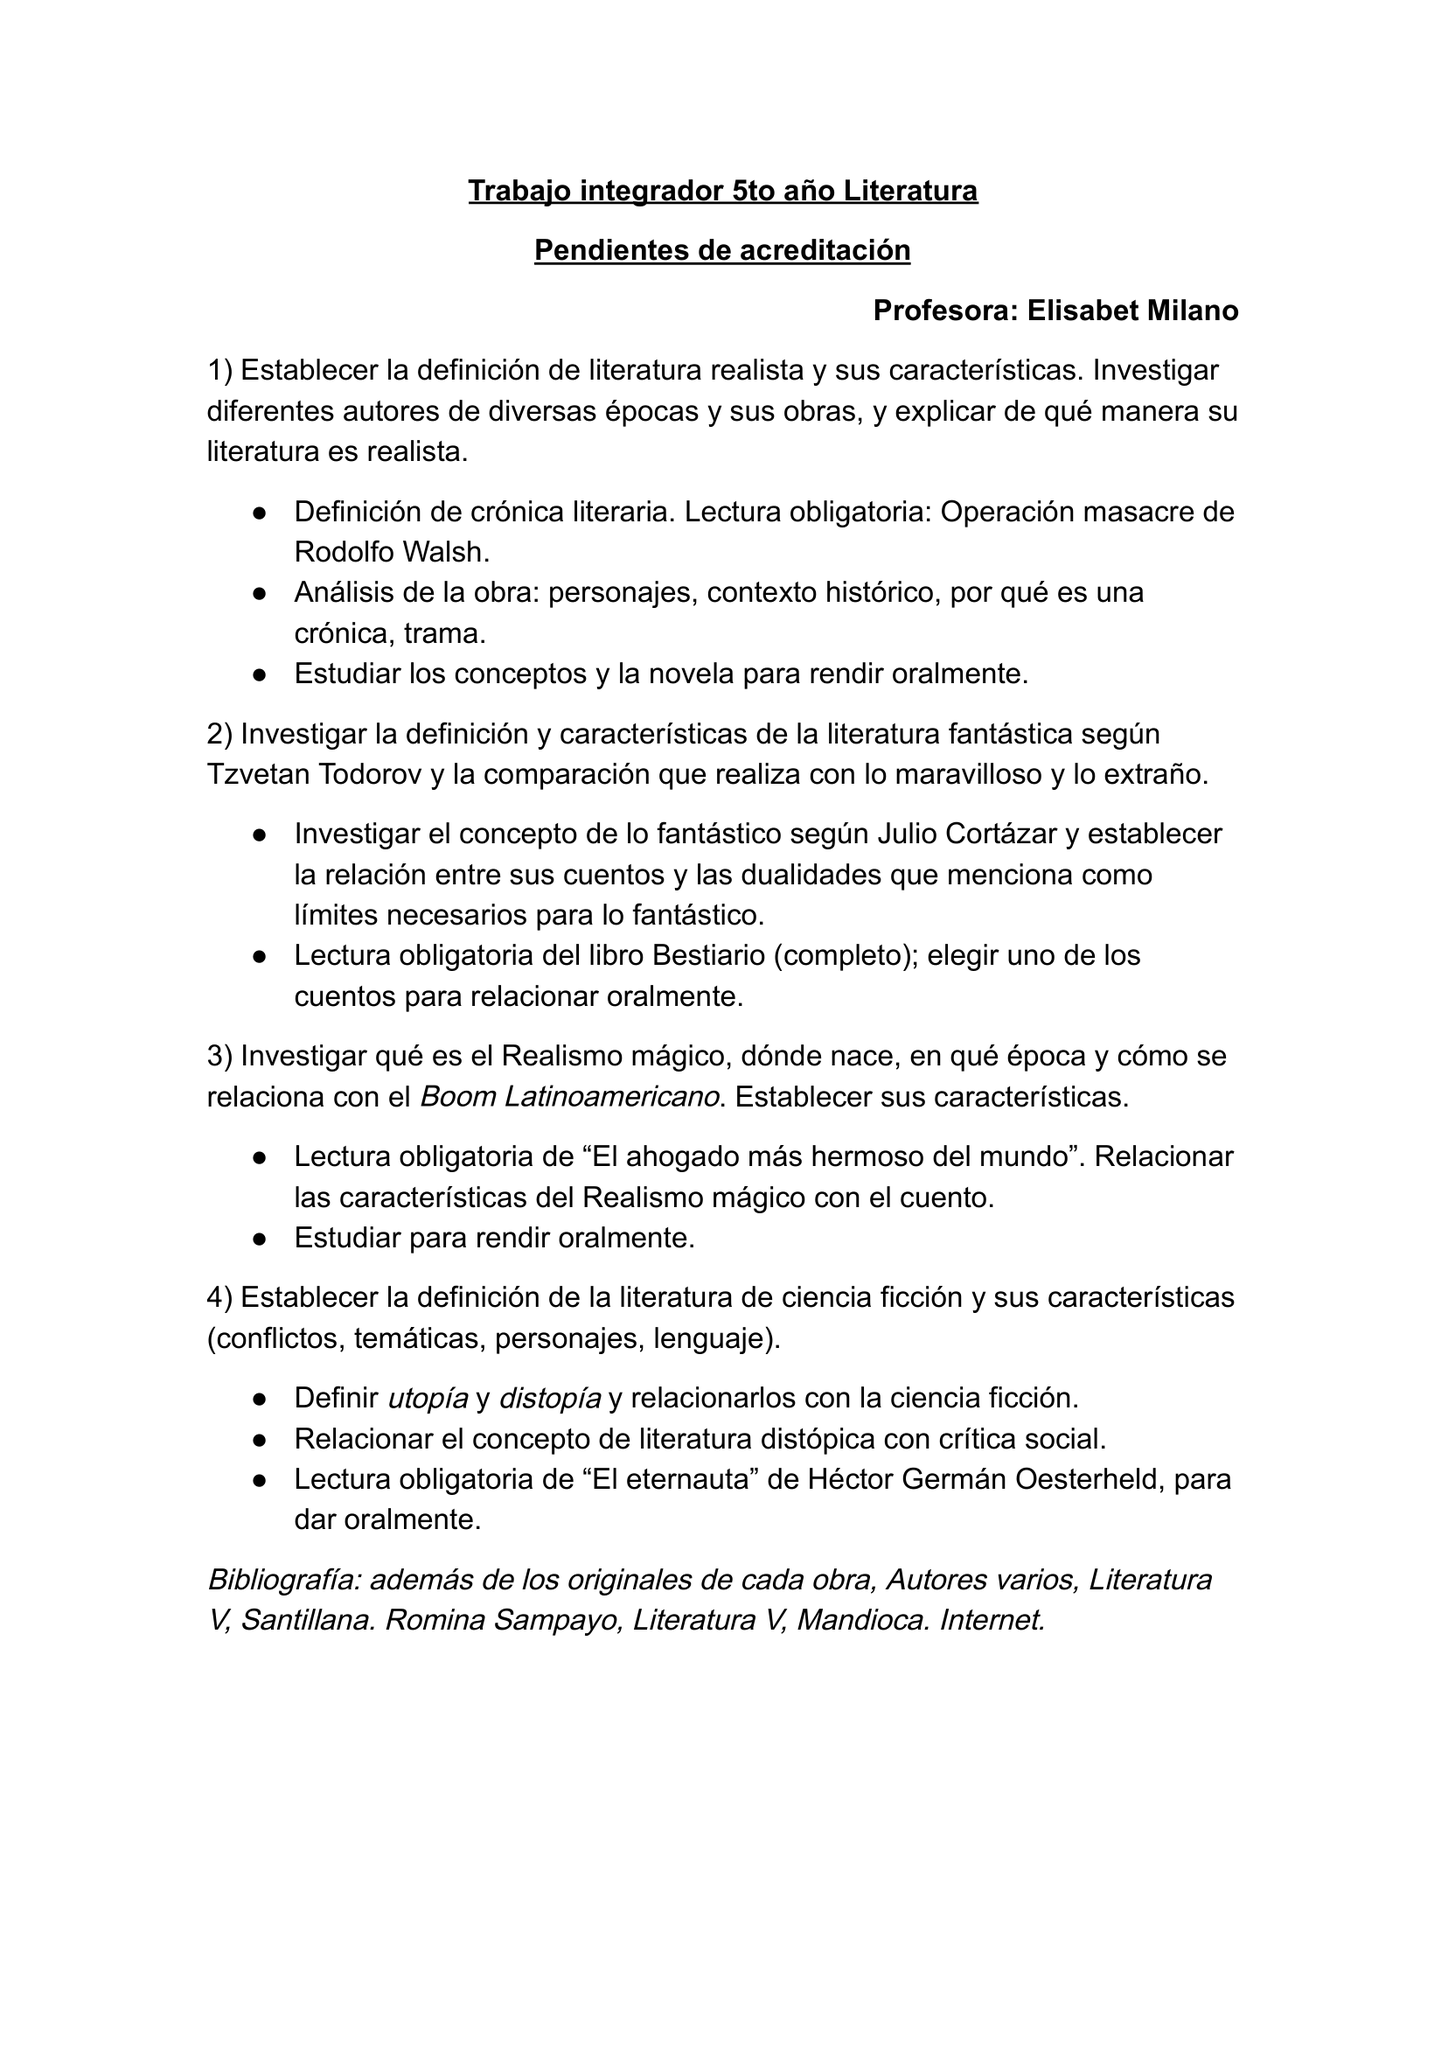
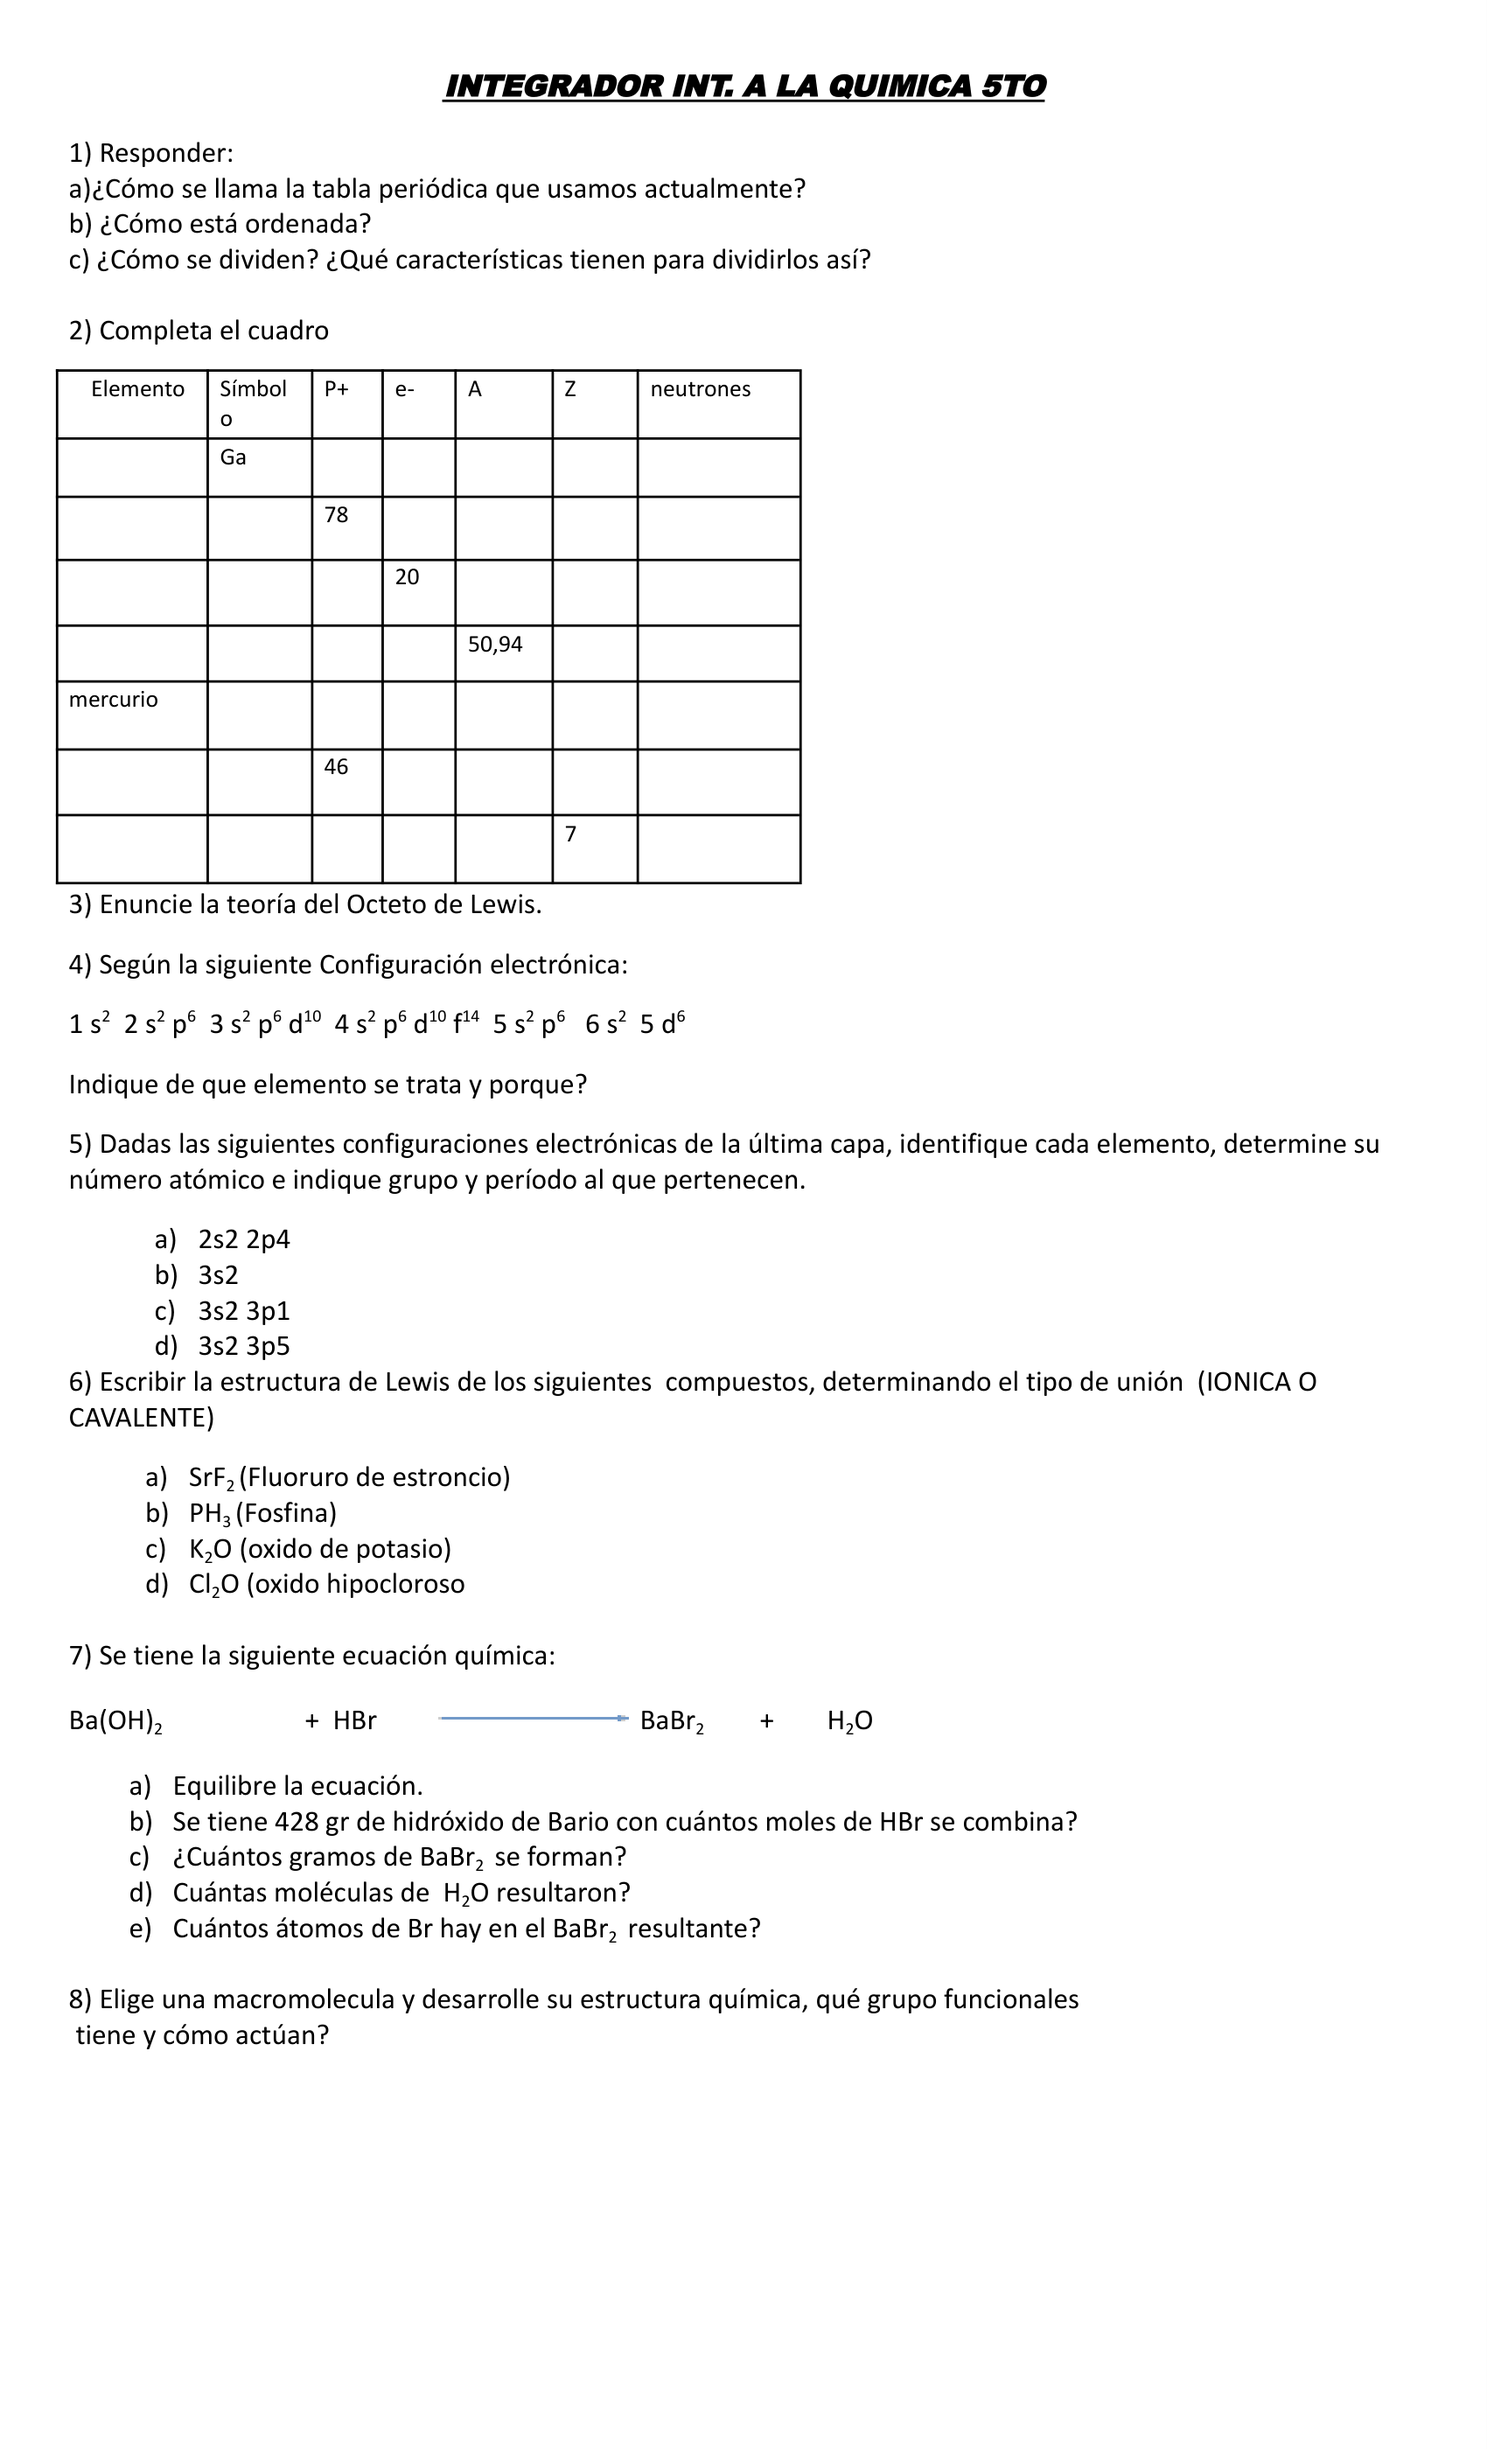
0.4.2 png 0.0.8.2 js
png
+ Materias 2do 4to y 5to

js
+ Conf 20 43 51 53

Changed region(s): [[0.0308, 0.0312, 0.8623, 0.8427], [0.7699, 0.4994, 0.8315, 0.5306], [0.0616, 0.6866, 0.0924, 0.7178]]

diff --git a/main.js b/main.js
@@ -15,14 +15,14 @@ const year62 = ["Arte",  "Filosofía", "Geografía", "Historia", "Inglés", "Lit
 const year63 = ["Amb. y Soc.", "Biología", "Filos. e Histor.", "Física", "Inglés", "Literatura", "Matemática", "Química", "Trabajo y Ciudadanía", "Ed. Fisica"];
 
 const year1pages = [6,10,12,10,2,5,5,1,9,8];
-const year2pages = [5,1,2,2,3,3,7,4,1,18,9,11];
+const year2pages = [5,1,2,3,3,3,7,4,1,18,9,11];
 const year3pages = [3,1,9,3,3,4,1,2,1,11,14];
 const year41pages = [0,2,0,0,6,2,4,2,7,0,2];
 const year42pages = [3,2,25,3,0,1,2,2,6];
-const year43pages = [0,0,25,0,10,1,2];
-const year51pages = [0,2,6,3,13,1,1,0,4,17,2,7];
+const year43pages = [0,0,25,0,10,1,2,0,9];
+const year51pages = [0,2,6,3,13,0,10,1,4,17,2,7];
 const year52pages = [0,3,26,0,10,1,1,5,53,8,7];
-const year53pages = [4,0,25,2,0,2,10,2,35,7];
+const year53pages = [4,0,25,2,4,2,10,2,35,7];
 const year61pages = [16,1,4,5,1,5,3,5,2];
 const year62pages = [0,4,6,0,5,3,6,0,0,2];
 const year63pages = [0,4,5,0,5,1,0,6,5,2];
